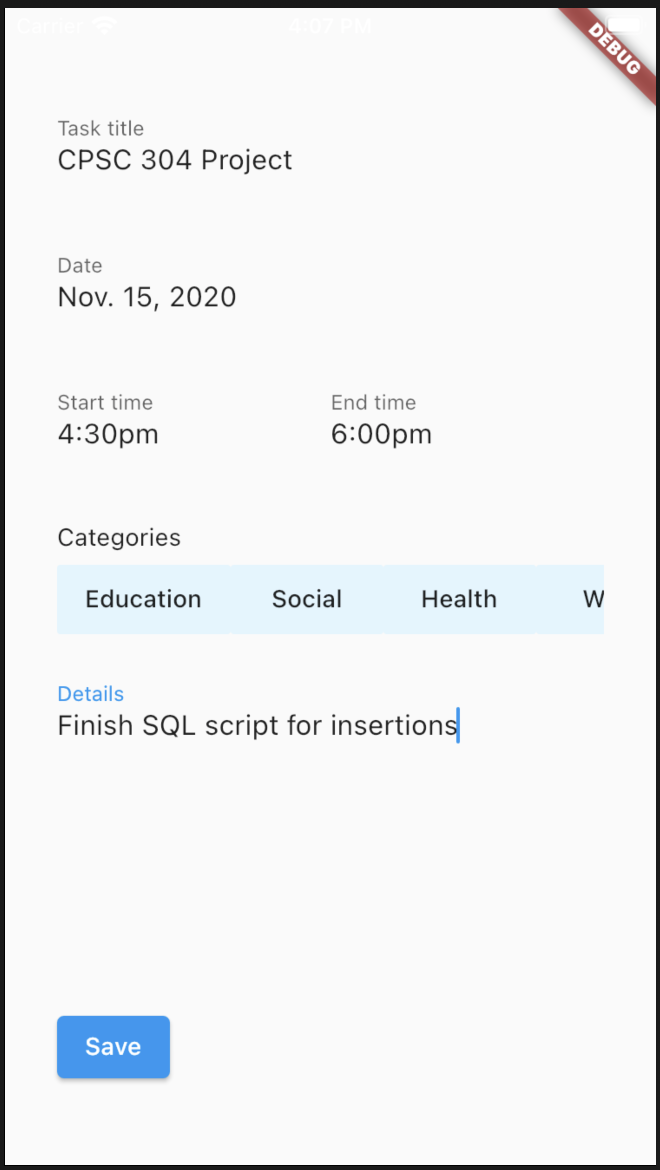
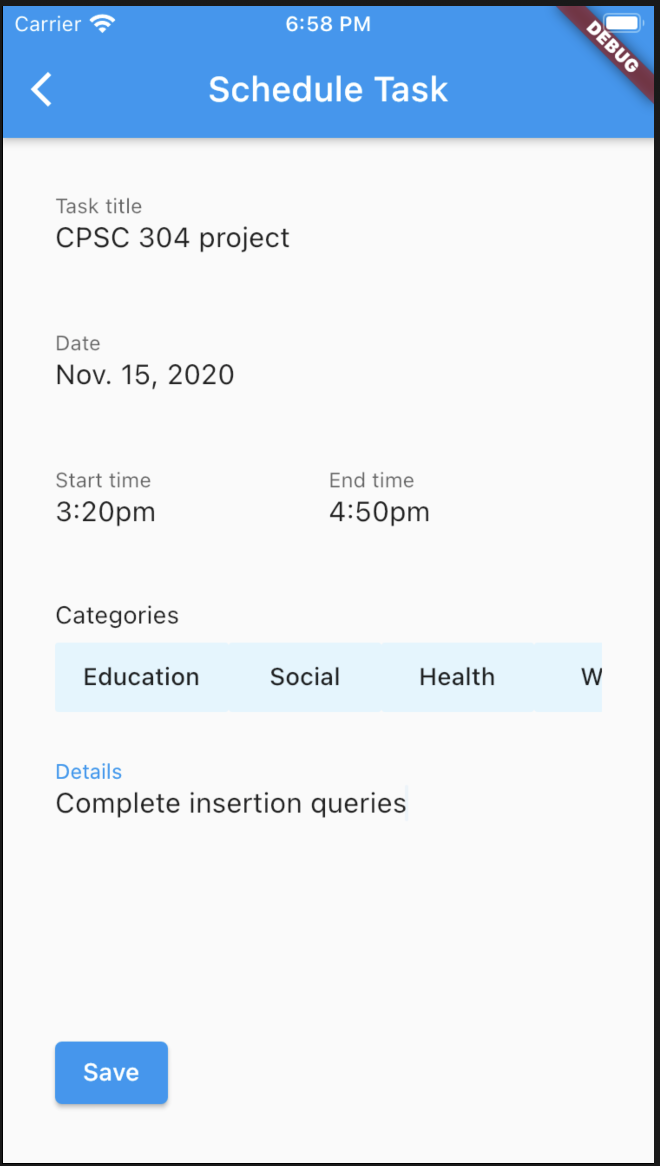
added appbar with navigation back to origin

diff --git a/lib/src/screens/schedule_task.dart b/lib/src/screens/schedule_task.dart
@@ -23,6 +23,7 @@ class _scheduleTaskScreenState extends State<StatefulWidget>{
   Widget build(BuildContext context) {
     return Scaffold(
       key: Key('schedule_task_screen'),
+      appBar: _renderTopAppBar(),
       body: SingleChildScrollView(
         child: Container(
           padding: const EdgeInsets.symmetric(
@@ -36,7 +37,6 @@ class _scheduleTaskScreenState extends State<StatefulWidget>{
 Widget renderTaskScheduling()=> Column(
     crossAxisAlignment: CrossAxisAlignment.start,
     children: <Widget> [
-      SizedBox(height:30),
       _renderTextField('Task title', taskTitleFieldController),
       SizedBox(height:20),
       _renderTextField('Date', dateFieldController),
@@ -48,7 +48,7 @@ Widget renderTaskScheduling()=> Column(
       _renderCategoryChoices(),
       SizedBox(height:15),
       _renderTextField('Details', detailsFieldController),
-      SizedBox(height: 140),
+      SizedBox(height: 110),
       _renderSaveButton(),
     ],);
 
@@ -89,6 +89,11 @@ Widget _renderCategoryChoices() => Container(
         );
       }
   ));
+
+Widget _renderTopAppBar() => AppBar(
+        title: Text('Schedule Task'),
+        centerTitle: true,
+      );
 
 Widget _renderSaveButton() =>  ElevatedButton(
     key: Key('save_scheduled_task_button'),
